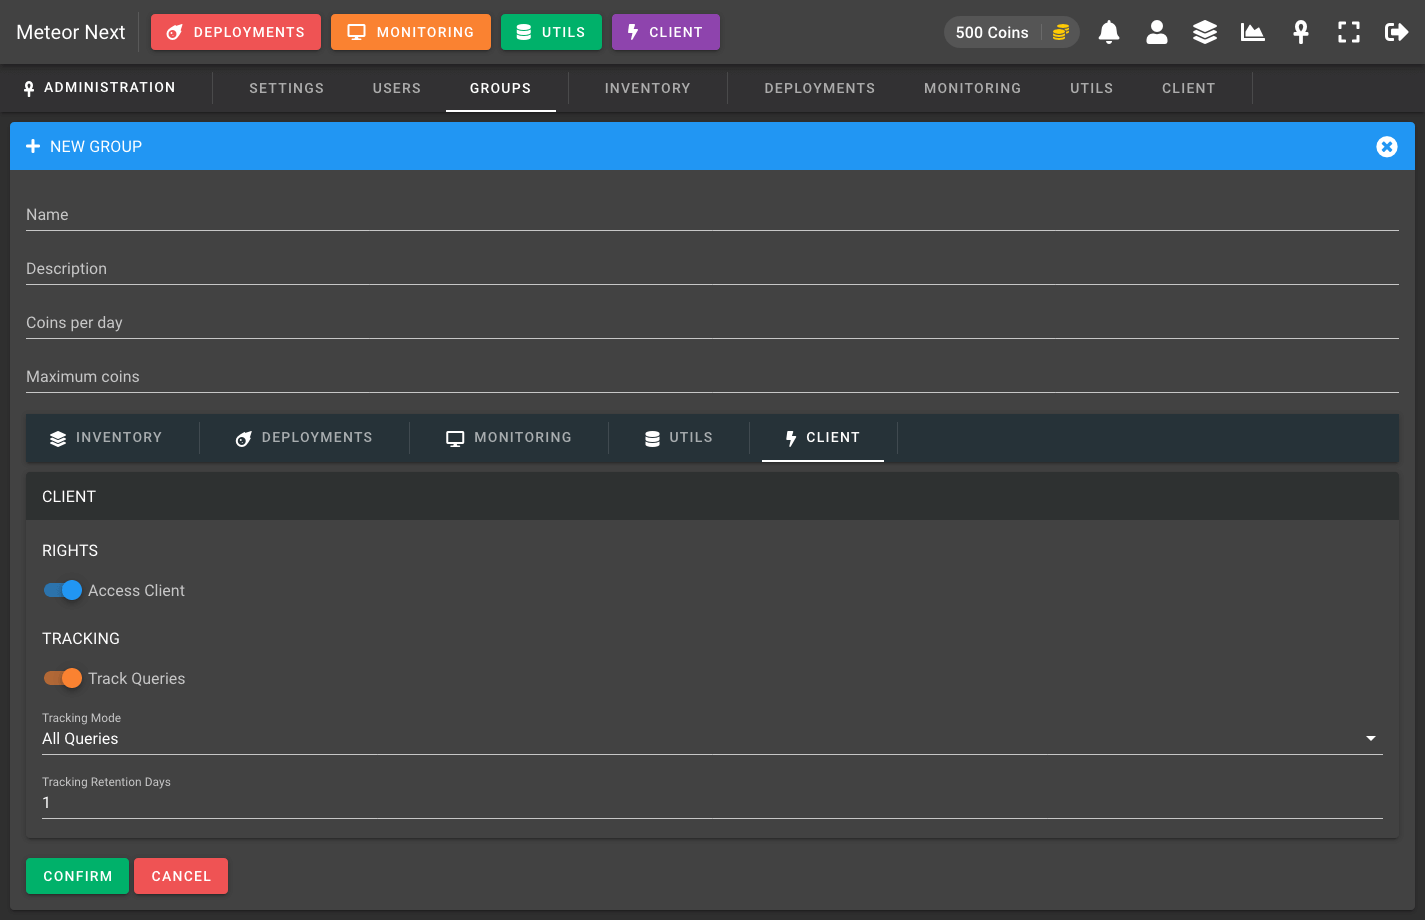
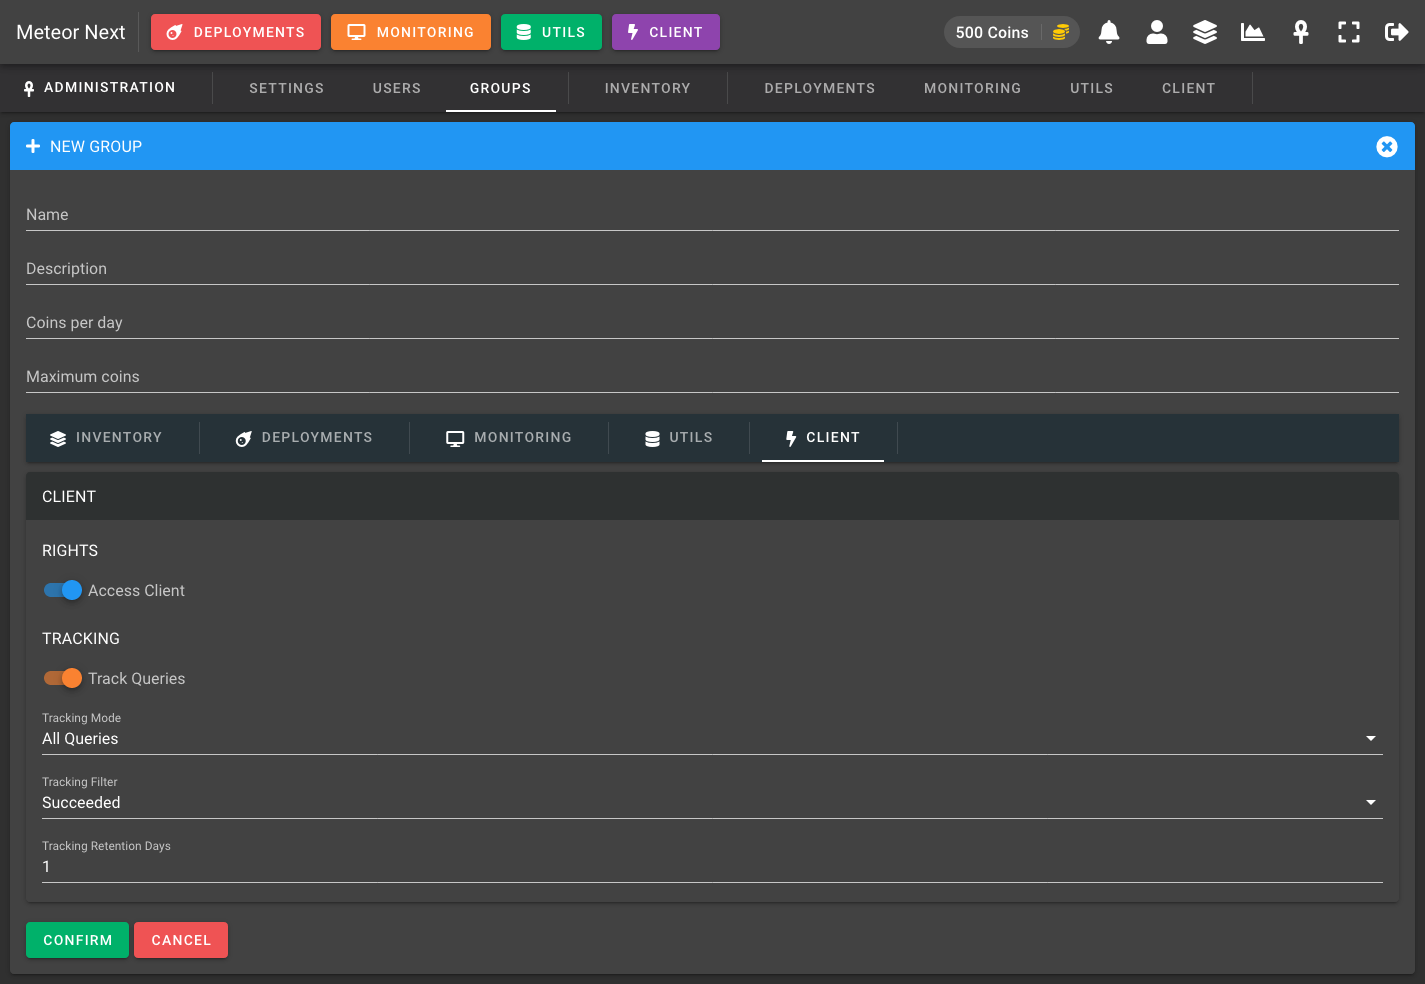
Improvements

Changed region(s): [[0.0, 0.213, 0.9881, 0.9739], [0.0, 0.0, 1.0, 0.1826]]

diff --git a/docs/guides/administration/groups.md b/docs/guides/administration/groups.md
@@ -83,11 +83,15 @@ The following screenshot shows a graphic example about having `Execution threads
 
 Here you can set the permissions affecting the Monitoring section.
 
+![alt text](../../../assets/administration/admin-groups-new-monitoring.png "Admin - Groups - New (Monitoring)")
+
 **RIGHTS**
 
 - **Access Monitoring**: If this option is enabled all user's contained in this group will be able to access the monitoring section and the monitoring button will be visible at the top bar.
 
-![alt text](../../../assets/administration/admin-groups-new-monitoring.png "Admin - Groups - New (Monitoring)")
+**LIMITS**
+
+- **Data Collection Interval (seconds)**: The interval of seconds that have to pass to retrieve again all server's status. The value must be greater or equal than 10.
 
 ### Utils
 
@@ -123,4 +127,5 @@ Here you can set the permissions affecting the Client section.
 
 - **Track Queries**: Enable this option to store all the queries that are being executed in the Client section. It's useful if you want to know which kind of queries your users are executing. Also it can be useful in case of someone executes a query and breaks something. In this way you will know exactly what queries the user executed and this information may come in handy in order to solve the issue.
     - **Tracking Mode**: This option can be either `All Queries` to track every query the users execute or `All Queries (exclude SELECTs)` to exclude SELECTs and EXPLAINs to be tracked.
+    - **Tracking Filter**: This option is used to filter which queries are meant to be tracked. The available options are `All Queries`, `Succeeded` or `Failed`.
     - **Tracking Retention Days**: This value is used to determine how many days we would like to retain the queries tracked.

diff --git a/docs/guides/monitoring/introduction.md b/docs/guides/monitoring/introduction.md
@@ -25,7 +25,6 @@ You can also click a server to get further details.
 
 There are some settings that can be defined:
 
-- **Data Collection Interval (seconds)**: The seconds that have to pass to retrieve again the server's status. The value must be greater or equal than 9.
 - **Servers per line**: The amount of servers to be displayed per line.
 - **Slack Notifications**: Enable to receive an Slack message everytime a server changes its status (available, unavailable, parameters changed, restart).
 
